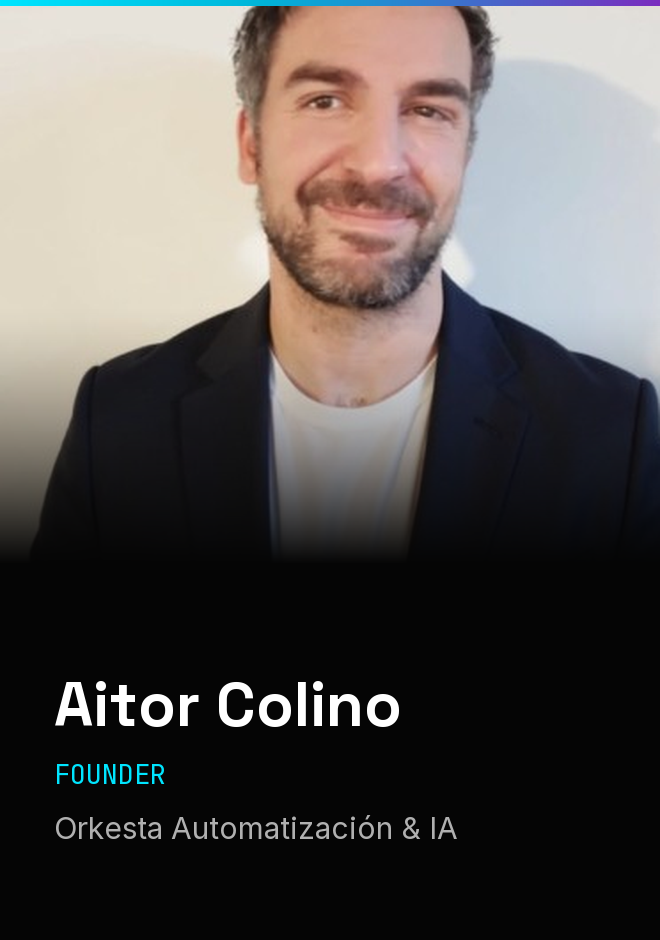
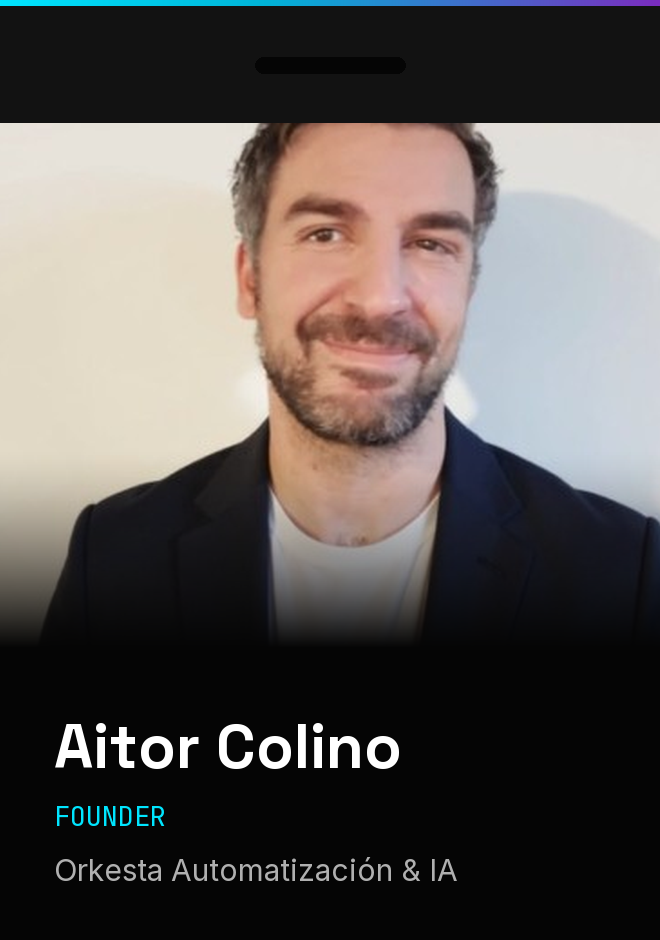
Ficha: zona segura para el anclaje y respaldo movil completo
Encuadre parametrizado en scripts/genera-tarjeta.py: banda de anclaje,
punto focal, zoom y recorte del original estan arriba del archivo con su
explicacion. Con otra foto se ajustan dos numeros y se mira el PNG.

La tarjeta reserva ahora una franja superior con ranura, como una tarjeta
real: la pinza del cordon cae ahi y no sobre la cara.

El respaldo sin fisica pasa de ser una foto suelta a la ficha entera:
tramo de cinta, enganche metalico, sombra larga y flotacion suave, todo en
CSS. Sin movimiento con prefers-reduced-motion.

diff --git a/app/globals.css b/app/globals.css
@@ -259,33 +259,97 @@ h6 {
   height: min(86dvh, 900px);
 }
 
-/* Respaldo estático: misma composición, sin cordón ni física */
-.ork-tarjeta-estatica {
+/* Respaldo sin física: la ficha entera dibujada en CSS — cinta, enganche,
+   sombra larga y flotación suave. Tiene que verse tan acabada como la 3D. */
+.ork-ficha {
   display: flex;
   flex-direction: column;
   align-items: center;
+  animation: ficha-flota 7s ease-in-out infinite alternate;
+  transform-origin: 50% 0;
 }
 
-.ork-tarjeta-estatica__cordon {
-  display: block;
-  width: 2px;
-  height: clamp(48px, 9vh, 96px);
+@keyframes ficha-flota {
+  from {
+    transform: translateY(-5px) rotate(-0.7deg);
+  }
+  to {
+    transform: translateY(5px) rotate(0.7deg);
+  }
+}
+
+/* Tramo de cinta que entra desde arriba */
+.ork-ficha__cinta {
+  position: relative;
+  display: grid;
+  place-items: center;
+  width: 40px;
+  height: clamp(72px, 13vh, 132px);
+  overflow: hidden;
+  border-radius: 3px;
   background: linear-gradient(
     to bottom,
-    transparent,
-    color-mix(in srgb, var(--color-ork-cyan) 55%, transparent)
+    color-mix(in srgb, var(--color-ork-surface-2) 40%, transparent),
+    #262626 22%,
+    #2e2e2e
   );
+  box-shadow: inset 0 0 0 1px rgba(255, 255, 255, 0.05);
 }
 
-.ork-tarjeta-estatica__img {
-  width: min(68vw, 300px);
-  height: auto;
+/* Nombre repetido a lo largo de la cinta, como en un cordón real */
+.ork-ficha__cinta-texto {
+  font-family: var(--font-mono);
+  font-size: 0.5rem;
+  letter-spacing: 0.22em;
+  white-space: nowrap;
+  color: #6a6a6a;
+  transform: rotate(-90deg);
+}
+
+/* Enganche metálico */
+.ork-ficha__pinza {
+  position: relative;
+  z-index: 2;
+  display: block;
+  width: 34px;
+  height: 20px;
+  margin-top: -3px;
+  border-radius: 4px 4px 7px 7px;
+  background: linear-gradient(160deg, #6f7378, #2f3236 55%, #55585c);
+  box-shadow:
+    0 3px 8px rgba(0, 0, 0, 0.65),
+    inset 0 1px 0 rgba(255, 255, 255, 0.28);
+}
+
+.ork-ficha__pinza::after {
+  content: "";
+  position: absolute;
+  left: 50%;
+  bottom: -7px;
+  width: 12px;
+  height: 12px;
+  transform: translateX(-50%);
+  border: 2px solid #4a4d51;
+  border-top: 0;
+  border-radius: 0 0 8px 8px;
+}
+
+.ork-ficha__cuerpo {
+  display: block;
+  margin-top: 6px;
   border-radius: 14px;
+  overflow: hidden;
   /* Profundidad por sombra, no por borde — brief §7.3 */
   box-shadow:
     0 24px 64px rgba(0, 0, 0, 0.45),
     0 48px 90px -40px rgba(0, 0, 0, 0.9),
     inset 0 1px 0 rgba(255, 255, 255, 0.06);
+}
+
+.ork-ficha__img {
+  display: block;
+  width: min(74vw, 320px);
+  height: auto;
 }
 
 /* ------------------------------------------------------------------ */
@@ -776,6 +840,10 @@ h6 {
     animation-duration: 0.01ms !important;
     animation-iteration-count: 1 !important;
     transition-duration: 120ms !important;
+  }
+
+  .ork-ficha {
+    animation: none;
   }
 
   /* El deck se recorre sin encaje ni desplazamiento animado */

diff --git a/components/portada/TarjetaAitor.tsx b/components/portada/TarjetaAitor.tsx
@@ -68,20 +68,29 @@ export function TarjetaAitor() {
   );
 }
 
-/** Respaldo: la tarjeta quieta, con el mismo aire y la misma sombra. */
+/**
+ * Respaldo sin física: la misma tarjeta completa, con su tramo de cinta y su
+ * enganche dibujados en CSS, sombra larga y una flotación suave. No es la
+ * foto suelta — tiene que leerse como la misma ficha, quieta.
+ */
 function TarjetaEstatica() {
   return (
-    <div className="ork-tarjeta-estatica">
-      <span aria-hidden="true" className="ork-tarjeta-estatica__cordon" />
-      <Image
-        src="/lanyard/tarjeta-frente.png"
-        alt=""
-        width={660}
-        height={940}
-        priority
-        sizes="(max-width: 1023px) 68vw, 320px"
-        className="ork-tarjeta-estatica__img"
-      />
+    <div className="ork-ficha" aria-hidden="true">
+      <span className="ork-ficha__cinta">
+        <span className="ork-ficha__cinta-texto">ORKESTA · ORKESTA</span>
+      </span>
+      <span className="ork-ficha__pinza" />
+      <span className="ork-ficha__cuerpo">
+        <Image
+          src="/lanyard/tarjeta-frente.png"
+          alt=""
+          width={660}
+          height={940}
+          priority
+          sizes="(max-width: 1023px) 74vw, 320px"
+          className="ork-ficha__img"
+        />
+      </span>
     </div>
   );
 }

diff --git a/scripts/genera-tarjeta.py b/scripts/genera-tarjeta.py
@@ -4,12 +4,29 @@ Genera las dos caras de la tarjeta del Lanyard de la portada.
 Cara delantera: foto de Aitor + nombre y cargo.
 Cara trasera:  el orkestador sobre negro.
 
-Los colores y las tipografías salen de ORKESTA-DESIGN.md. Las fuentes se
-convierten desde assets/og-fonts (woff) a TTF en caliente, porque PIL no lee
-woff. Salida en public/lanyard/.
+Colores y tipografías salen de ORKESTA-DESIGN.md. Las fuentes se convierten
+desde assets/og-fonts (woff) a TTF en caliente, porque PIL no lee woff.
+
+────────────────────────────────────────────────────────────────────────────
+AJUSTES DE ENCUADRE — se tocan aquí, no en el código de la web
+────────────────────────────────────────────────────────────────────────────
+La foto va a cambiar. Todo lo que depende de ella está parametrizado:
+
+  BANDA_ANCLAJE   Franja superior reservada para la pinza del cordón. La foto
+                  empieza por debajo, así que el enganche nunca cae sobre la
+                  cara. Es la «zona segura» del anclaje.
+  FOCO_X, FOCO_Y  Punto de la foto original que queda centrado en el hueco
+                  (0..1). FOCO_Y bajo = más frente y menos barbilla.
+  ZOOM            1.0 = la foto llena el hueco justo. Subirlo acerca la cara;
+                  bajarlo deja más aire alrededor.
+  RECORTE_ORIGEN  Recorte previo del archivo original, para quitar marcas de
+                  agua o bordes. (izq, arriba, der, abajo) en fracción.
+
+Con una foto nueva: ajustar FOCO_Y y ZOOM, ejecutar y mirar el PNG.
 
 Uso: python scripts/genera-tarjeta.py
 """
+
 import io
 import os
 
@@ -22,15 +39,19 @@ FOTO = (
 )
 SALIDA = os.path.join("public", "lanyard")
 
-# ORKESTA-DESIGN.md §2
+# ── Encuadre ───────────────────────────────────────────────────────────────
+BANDA_ANCLAJE = 0.13  # fracción de alto reservada arriba para la pinza
+FOCO_X, FOCO_Y = 0.5, 0.40
+ZOOM = 1.02
+RECORTE_ORIGEN = (0.0, 0.05, 0.93, 1.0)  # quita la marca de agua del original
+
+# ── Marca (ORKESTA-DESIGN.md §2) ───────────────────────────────────────────
 BG = (5, 5, 5)
 SURFACE = (18, 18, 18)
 TEXTO = (255, 255, 255)
 MUTED = (176, 176, 176)
 CYAN = (0, 229, 255)
 
-# El nombre lo confirmó Aitor directamente; el brief traía un apellido
-# distinto que era un marcador de posición.
 NOMBRE = "Aitor Colino"
 CARGO = "Founder"
 EMPRESA = "Orkesta Automatización & IA"
@@ -48,12 +69,27 @@ def fuente(nombre, tam):
     return ImageFont.truetype(buf, tam)
 
 
-def recorta_cubriendo(im, w, h):
-    """Recorta la imagen para llenar w×h sin deformarla."""
-    r = max(w / im.width, h / im.height)
-    im = im.resize((round(im.width * r), round(im.height * r)), Image.LANCZOS)
-    x = (im.width - w) // 2
-    y = (im.height - h) // 2
+def degradado_marca(d, y0, y1):
+    """Filete horizontal con el degradado de marca."""
+    for x in range(W):
+        t = x / (W - 1)
+        if t < 0.4:
+            k = t / 0.4
+            c = (0, int(229 - 49 * k), int(255 - 39 * k))
+        else:
+            k = (t - 0.4) / 0.6
+            c = (int(123 * k), int(180 - 136 * k), int(216 - 25 * k))
+        d.line([(x, y0), (x, y1)], fill=c)
+
+
+def encaja(im, w, h, foco_x, foco_y, zoom):
+    """Recorta la foto para llenar w×h respetando el punto focal."""
+    r = max(w / im.width, h / im.height) * zoom
+    im = im.resize((max(1, round(im.width * r)), max(1, round(im.height * r))), Image.LANCZOS)
+    x = round((im.width - w) * foco_x)
+    y = round((im.height - h) * foco_y)
+    x = max(0, min(x, im.width - w))
+    y = max(0, min(y, im.height - h))
     return im.crop((x, y, x + w, y + h))
 
 
@@ -61,56 +97,54 @@ def delantera():
     card = Image.new("RGB", (W, H), BG)
     d = ImageDraw.Draw(card)
 
-    # Foto: ocupa la parte superior, con desvanecido hacia el fondo
-    alto_foto = int(H * 0.60)
+    banda = int(H * BANDA_ANCLAJE)
+    alto_foto = int(H * 0.56)
+
     foto = Image.open(FOTO).convert("RGB")
-    # El original trae una marca de agua en la esquina superior derecha:
-    # se recorta antes de componer.
     fw, fh = foto.size
-    foto = foto.crop((0, int(fh * 0.10), int(fw * 0.93), fh))
-    foto = recorta_cubriendo(foto, W, alto_foto)
-    card.paste(foto, (0, 0))
+    izq, arr, der, aba = RECORTE_ORIGEN
+    foto = foto.crop((int(fw * izq), int(fh * arr), int(fw * der), int(fh * aba)))
+    foto = encaja(foto, W, alto_foto, FOCO_X, FOCO_Y, ZOOM)
+    card.paste(foto, (0, banda))
 
-    # Degradado de la foto al fondo para que no haya un corte duro
-    fundido_alto = 260
-    fundido = Image.new("L", (1, fundido_alto))
+    # La foto se funde con el fondo por abajo, sin corte duro
+    fundido_alto = 200
+    mascara = Image.new("L", (1, fundido_alto))
     for y in range(fundido_alto):
-        fundido.putpixel((0, y), int(255 * (y / (fundido_alto - 1)) ** 1.4))
-    fundido = fundido.resize((W, fundido_alto))
-    negro = Image.new("RGB", (W, fundido_alto), BG)
-    card.paste(negro, (0, alto_foto - fundido_alto), fundido)
+        mascara.putpixel((0, y), int(255 * (y / (fundido_alto - 1)) ** 1.4))
+    mascara = mascara.resize((W, fundido_alto))
+    card.paste(
+        Image.new("RGB", (W, fundido_alto), BG),
+        (0, banda + alto_foto - fundido_alto),
+        mascara,
+    )
 
-    # Filete del degradado de marca, arriba
-    for x in range(W):
-        t = x / (W - 1)
-        if t < 0.4:
-            k = t / 0.4
-            c = (int(0 + 0 * k), int(229 - 49 * k), int(255 - 39 * k))
-        else:
-            k = (t - 0.4) / 0.6
-            c = (int(0 + 123 * k), int(180 - 136 * k), int(216 - 25 * k))
-        d.line([(x, 0), (x, 5)], fill=c)
+    # Banda de anclaje: superficie elevada + filete de marca. Aquí cae la pinza.
+    d.rectangle([0, 0, W, banda], fill=SURFACE)
+    degradado_marca(d, 0, 5)
+    # Ranura, como la de una tarjeta real
+    ranura_w, ranura_h = 150, 16
+    x0 = (W - ranura_w) // 2
+    y0 = (banda - ranura_h) // 2 + 4
+    d.rounded_rectangle([x0, y0, x0 + ranura_w, y0 + ranura_h], radius=8, fill=BG)
 
-    # Textos
     f_nombre = fuente("space-grotesk-latin-700-normal", 62)
     f_cargo = fuente("jetbrains-mono-latin-400-normal", 27)
     f_empresa = fuente("inter-latin-400-normal", 30)
 
-    # El bloque de texto se centra ópticamente en la banda que queda bajo la
-    # foto, en vez de quedar pegado a ella con un hueco muerto debajo.
+    tope = banda + alto_foto
     alto_bloque = 62 + 30 + 27 + 26 + 30
-    y = alto_foto + (H - alto_foto - alto_bloque) // 2
+    y = tope + (H - tope - alto_bloque) // 2
     d.text((54, y), NOMBRE, font=f_nombre, fill=TEXTO)
     y += 92
     d.text((54, y), CARGO.upper(), font=f_cargo, fill=CYAN)
     y += 53
     d.text((54, y), EMPRESA, font=f_empresa, fill=MUTED)
-
     return card
 
 
-def trasera_simple():
-    """Cara trasera: el orkestador del brandbook, limpio, sobre negro."""
+def trasera():
+    """Cara trasera: el orkestador sobre negro."""
     card = Image.new("RGB", (W, H), BG)
     src = os.path.join("public", "marca-orkesta.png")
     if os.path.exists(src):
@@ -124,25 +158,14 @@ def trasera_simple():
     texto = "ORKESTA"
     caja = d.textbbox((0, 0), texto, font=f)
     d.text(((W - (caja[2] - caja[0])) // 2, int(H * 0.66)), texto, font=f, fill=MUTED)
-
-    for x in range(W):
-        t = x / (W - 1)
-        if t < 0.4:
-            k = t / 0.4
-            c = (0, int(229 - 49 * k), int(255 - 39 * k))
-        else:
-            k = (t - 0.4) / 0.6
-            c = (int(123 * k), int(180 - 136 * k), int(216 - 25 * k))
-        d.line([(x, 0), (x, 5)], fill=c)
+    degradado_marca(d, 0, 5)
     return card
 
 
 if __name__ == "__main__":
     os.makedirs(SALIDA, exist_ok=True)
-    a = delantera()
-    a.save(os.path.join(SALIDA, "tarjeta-frente.png"), optimize=True)
-    b = trasera_simple()
-    b.save(os.path.join(SALIDA, "tarjeta-dorso.png"), optimize=True)
+    delantera().save(os.path.join(SALIDA, "tarjeta-frente.png"), optimize=True)
+    trasera().save(os.path.join(SALIDA, "tarjeta-dorso.png"), optimize=True)
     for n in ("tarjeta-frente.png", "tarjeta-dorso.png"):
         p = os.path.join(SALIDA, n)
-        print(f"{n:24s} {Image.open(p).size}  {os.path.getsize(p)/1024:6.1f} KB")
+        print(f"{n:24s} {Image.open(p).size}  {os.path.getsize(p) / 1024:6.1f} KB")
